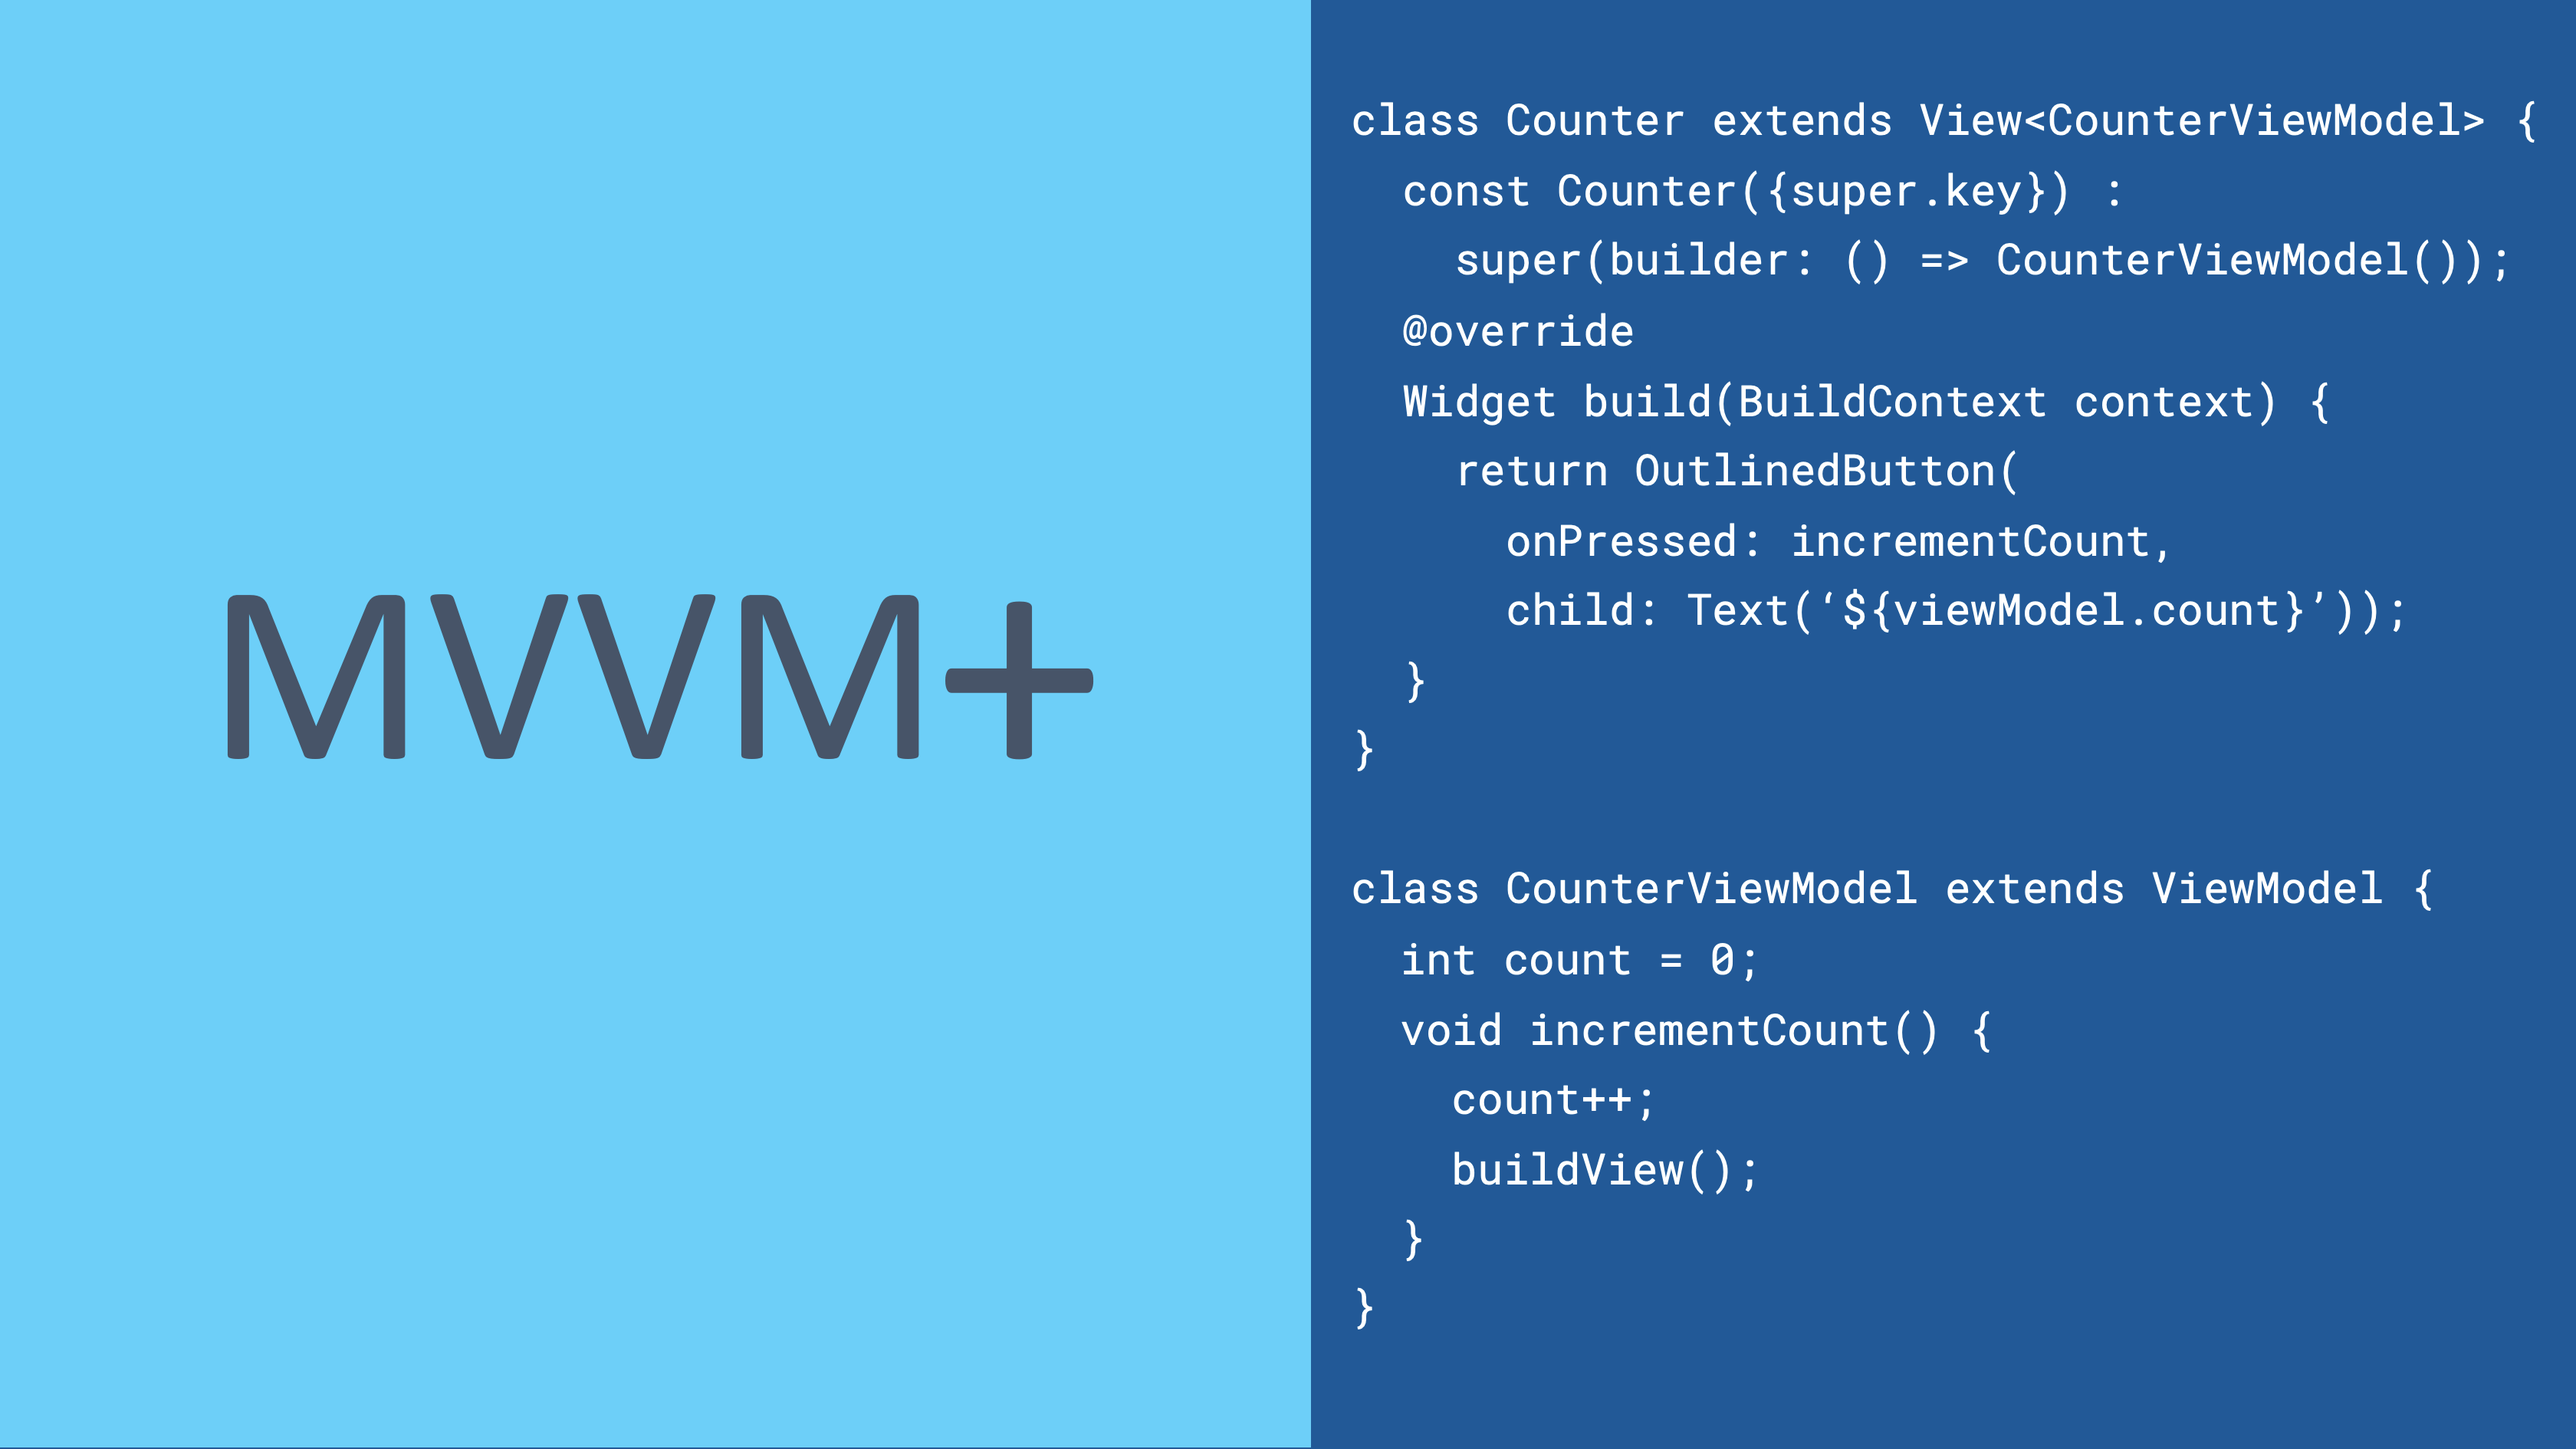
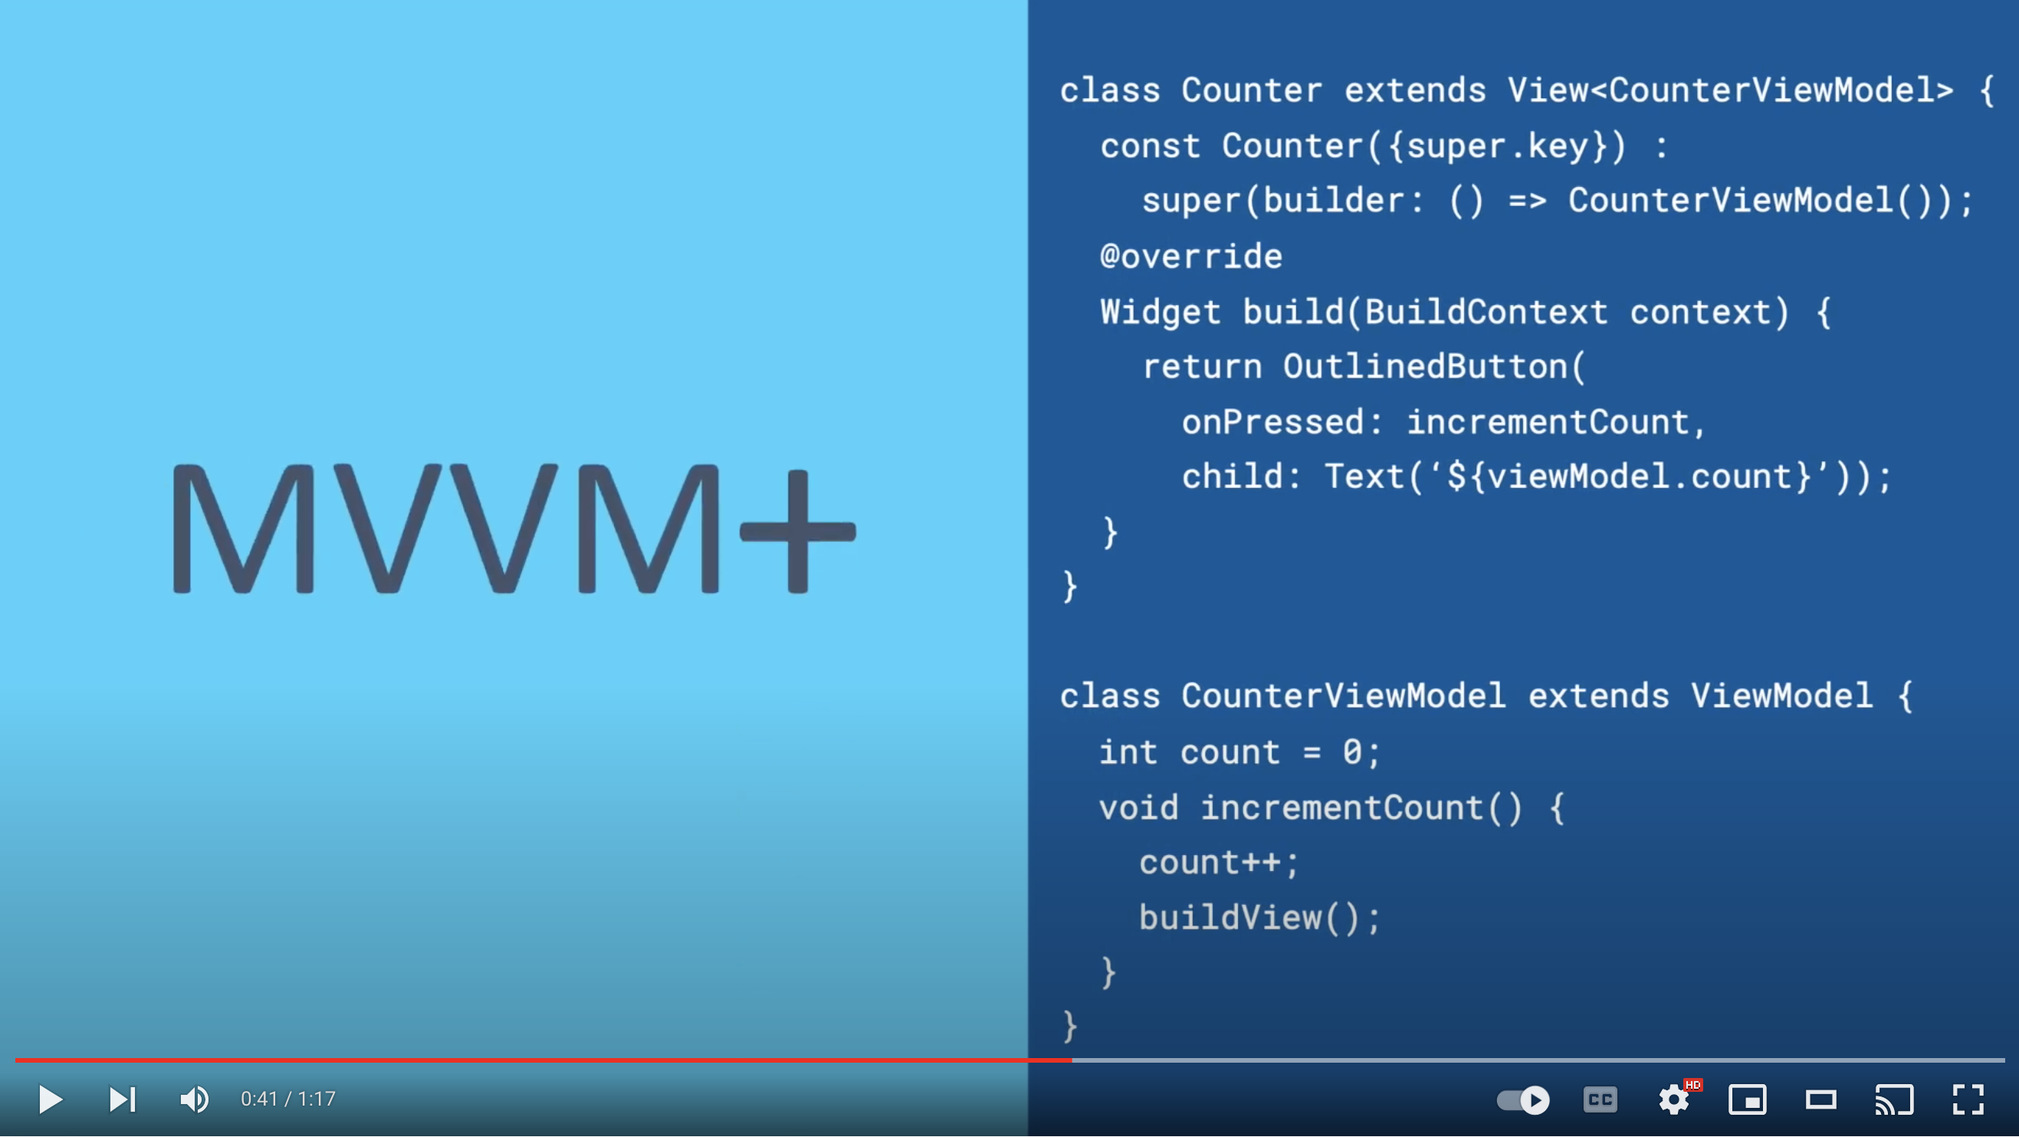
changelog+

diff --git a/README.md b/README.md
@@ -9,7 +9,6 @@ MVVM+ is a lightweight Flutter implementation of MVVM, plus a locator for sharin
 Here's my attempt at a package-of-the-week style video to show the most common features.
 
 [![Now in Android: 55](https://github.com/buttonsrtoys/mvvm_plus/blob/main/assets/ShortVidThumbnail.png)](https://youtu.be/QvDg8yg-UlY)
-[![Now in Android: 55](https://github.com/buttonsrtoys/mvvm_plus/blob/main/assets/MvvmPlusLogo.png)](https://youtu.be/QvDg8yg-UlY)
 
 ## Tiny API
 

diff --git a/CHANGELOG.md b/CHANGELOG.md
@@ -1,3 +1,7 @@
+## 1.0.4
+Reworked example.
+Added YouTube video to readme.
+
 ## 1.0.3
 Updated readme with Medium article.
 
